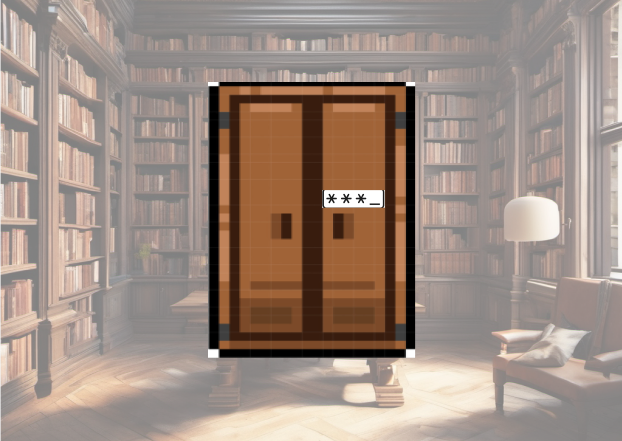
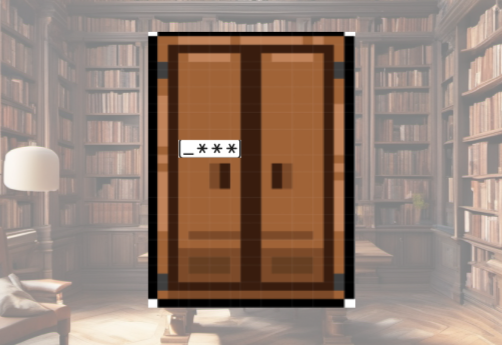
Merge branch 'development' of https://gitlab.fdmci.hva.nl/propedeuse-hbo-ict/onderwijs/2023-2024/out-d-se-gd/blok-3/jooduumeenii48 into development

diff --git a/src/web/src/components/GameCanvas.ts b/src/web/src/components/GameCanvas.ts
@@ -13,15 +13,12 @@ export class GameCanvas extends LitElement {
         display: grid;
         grid-template-columns: 1fr 2fr;
         grid-template-rows: auto auto auto auto;
-        grid-column-gap: 1px;
-        grid-row-gap: 10px;
         position: relative;
     }    
     
     /* CSS styles for the title */
     .title {
         text-align: center;
-        margin-top: 10px;
         position: absolute;
         top: 10px;
         left: 70%;
@@ -34,15 +31,18 @@ export class GameCanvas extends LitElement {
         grid-column: 2;
         grid-row: 1;
         position: relative;
+        max-width: 100%; 
+        height: auto; 
+        max-height: calc(100vh - 20px); 
     }
     
     /* CSS styles for the header image */
     .header img {
-        width: 100%;
-        height: auto;
+        max-width: 100%; 
+        height: auto; 
         image-rendering: pixelated;
         display: block;
-        margin: 50px;
+        margin: 50px 50px 30px 50px ; 
     }
     
     /* CSS styles for the content */
@@ -54,6 +54,7 @@ export class GameCanvas extends LitElement {
         position: relative;
         width: 100%;
         max-width: calc(150% - 100px);
+        overflow-y: auto; /* Add this line to make content scrollable */
     }
     
     /* CSS styles for the aside container */
@@ -61,11 +62,9 @@ export class GameCanvas extends LitElement {
         grid-column: 1;
         background-image: url('/public/assets/img/rooms/ba.png');
         border: 1px solid #332c57;
-        height: 100%;
+        height: auto;
         position: relative;
         background-size: cover;
-        height: 450px;
-        width: 100%;
     }
     
     /* CSS styles for the buttons in the aside */
@@ -134,12 +133,14 @@ export class GameCanvas extends LitElement {
         justify-content: flex-start;
         align-items: flex-start;
         overflow-y: auto;
-        max-height: calc(150vh - 100px);
         position: relative;
         background-size: cover;
         color: black;
-        height: 255px;
+        max-height: calc(100vh - 20px); /* Set max-height to 100% viewport height minus header height */
         width: 100%;
+        height: 285px;
+        margin-left: -8px;
+        margin-top: -60px; /* Align footer to the bottom of the screen */
     }
     
     /* CSS styles for the footer section heading */
@@ -445,24 +446,6 @@ export class GameCanvas extends LitElement {
         if (isUnlockCodeMiniGameEnabled) {
             return html`
                 <div class="aside">
-                    <div class="buttons">
-                        ${this.actionButtons?.map(
-                (button) => html`<a
-                                class="button action-button ${this.selectedActionButton === button ? "active" : ""}"
-                                @click=${(): void => void this.handleClickAction(button)}
-                            >${button.label}</a>`
-            )}
-                    </div>
-                    <div>
-                        ${this.selectedActionButton
-                    ? this.gameObjectButtons?.map(
-                        (button) => html`<a
-                                    class="button object-button ${this.selectedGameObjectButtons.has(button) ? "active" : ""}"
-                                    @click=${(): void => void this.handleClickObject(button)}
-                                >${button.name}</a>`
-                    )
-                    : nothing}
-                    </div>
                     <div class="pin-container">
                         ${[1, 2, 3, 4, 5, 6, 7, 8, 9].map((num) => html`
                             <a class="button pin-code" @click=${(): void => this.handleClickCode(num.toString())}>${num}</a>
@@ -536,20 +519,21 @@ export class GameCanvas extends LitElement {
                         @input=${this.handleNoteInputChange}
                         ></textarea><!-- Initialize textarea with notes value -->
                 ` : nothing}
+
+                <div class="footer-buttons">
+                    ${this.tasksVisible ? html`
+                        <p>Note: when leaving a room,<br>tasks will be cleared</p>
+                    ` : html`
+                        <p>Display tasks by clicking &#9660;</p>
+                        <!-- Text input field for notes -->
+                        
+                    `}
+                    <button @click=${this.handleResetButtonClick}>Reset Game🔄</button>
+                    <button @click=${this.exitRoom}>Exit Room🚪</button>
+                </div>
             </div>
         
         </div>
-        <div class="footer-buttons">
-        ${this.tasksVisible ? html`
-            <p>Note: when leaving a room,<br>tasks will be cleared</p>
-        ` : html`
-            <p>Display tasks by clicking &#9660;</p>
-            <!-- Text input field for notes -->
-            
-        `}
-        <button @click=${this.handleResetButtonClick}>Reset Game🔄</button>
-        <button @click=${this.exitRoom}>Exit Room🚪</button>
-    </div>
     `;
     }
 

diff --git a/src/api/src/Gurpreet/rooms/LibraryRoom.ts b/src/api/src/Gurpreet/rooms/LibraryRoom.ts
@@ -1,5 +1,5 @@
 // This import is for the PickupAction class.
-import { PickupAction } from "../actions/PickupAction";
+import { PickUpActionLibrary } from "../actions/PickupActionLibrary";
 
 // This section imports necessary classes for handling different types of action results.
 import { ActionResult } from "../../base/actionResults/ActionResult";
@@ -34,7 +34,7 @@ import { BookOne, BookOneAlias } from "../items/BookOne";
 import { BookTwo, BookTwoAlias } from "../items/BookTwo";
 import { BookThree, BookThreeAlias } from "../items/BookThree";
 import { Lamp } from "../items/Lamp";
-import { LockedCabinetItem } from "../items/LockedCabinet";
+import { LockedCabinetLibrary } from "../items/LockedCabinetLibrary";
 
 // This import is for the PlayerSession type.
 import { PlayerSession } from "../../types";
@@ -84,7 +84,7 @@ export class LibraryRoom extends Room implements Examine {
         if (playerSession.isLampOn) {
 
             // If the lamp is on show the image with illuminated library
-            return ["library_room"];
+            return ["library_room_light"];
 
         } else {
 
@@ -110,7 +110,7 @@ export class LibraryRoom extends Room implements Examine {
 
         if (playerSession.showPickupAction) {
             // Allows the player to pick up items in the room
-            actions.push(new PickupAction());
+            actions.push(new PickUpActionLibrary());
         }
 
         return actions;
@@ -182,7 +182,7 @@ export class LibraryRoom extends Room implements Examine {
                 if (this.allBooksCollected()) {
 
                     // Adding LockedCabinetItem to the objects array
-                    objects.push(new LockedCabinetItem);
+                    objects.push(new LockedCabinetLibrary);
 
                 }
 

diff --git a/src/api/src/Gurpreet/rooms/StartupRoom.ts b/src/api/src/Gurpreet/rooms/StartupRoom.ts
@@ -1,0 +1,46 @@
+import { ActionResult } from "../../base/actionResults/ActionResult";
+import { TextActionResult } from "../../base/actionResults/TextActionResult";
+import { Action } from "../../base/actions/Action";
+import { CustomAction } from "../../base/actions/CustomAction";
+import { GameObject } from "../../base/gameObjects/GameObject";
+import { Room } from "../../base/gameObjects/Room";
+import { getPlayerSession } from "../../instances";
+
+export const StartupRoomAlias: string = "startup";
+
+export class StartupRoom extends Room {
+    public constructor() {
+        super(StartupRoomAlias);
+    }
+
+    public name(): string {
+        return "Example game";
+    }
+
+    public images(): string[] {
+        return ["startup"];
+    }
+
+    public actions(): Action[] {
+        return [new CustomAction("start-game", "Start Game", false)];
+    }
+
+    public examine(): ActionResult | undefined {
+        return new TextActionResult(["This is an example."]);
+    }
+
+    public custom(alias: string, _gameObjects?: GameObject[]): ActionResult | undefined {
+        if (alias === "start-game") {
+
+            const room: LibraryRoom = new LibraryRoom();
+>>>>>>>> Gurpreet/Library:src/api/src/Gurpreet/rooms/StartupRoom.ts
+
+            //Set the current room to the example room
+            getPlayerSession().currentRoom = room.alias;
+
+            return room.examine();
+        }
+
+        return undefined;
+    }
+}

diff --git a/src/api/src/Gurpreet/actions/PickupActionLibrary.ts b/src/api/src/Gurpreet/actions/PickupActionLibrary.ts
@@ -6,7 +6,7 @@ import { castTo, implementsInterface } from "../../base/helpers";
 /**
  * Alias for the PickupAction class
  */
-export const PickupActionAlias: string = "pickup-action";
+export const PickUpActionLibraryAlias: string = "pickup-action";
 
 /**
  * Interface indicating that an object can be picked up 
@@ -18,9 +18,9 @@ export interface Pickup {
 /**
  * Class representing the Pickup action 
 */
-export class PickupAction extends Action {
+export class PickUpActionLibrary extends Action {
     public constructor() {
-        super(PickupActionAlias, "Pickup", true); // Calling the constructor of the superclass
+        super(PickUpActionLibraryAlias, "Pickup", true); // Calling the constructor of the superclass
     }
 
     /**
@@ -30,7 +30,7 @@ export class PickupAction extends Action {
      */
     public static handle(gameObject: GameObject): ActionResult | undefined {
         // Checking if the game object implements the Pickup interface
-        if (implementsInterface(gameObject, PickupActionAlias)) {
+        if (implementsInterface(gameObject, PickUpActionLibraryAlias)) {
             // Casting the game object to Pickup interface and calling the pickup method
             return castTo<Pickup>(gameObject).pickup();
         }

diff --git a/src/api/src/Gurpreet/items/LockedCabinetLibrary.ts b/src/api/src/Gurpreet/items/LockedCabinetLibrary.ts
@@ -15,12 +15,12 @@ import { Item } from "../../base/gameObjects/Item";
 /** 
  * Exporting the alias of the LockedCabinet class
  */
-export const LockedCabinetItemAlias: string = "Locked Cabinet";
+export const LockedCabinetLibraryAlias: string = "Locked Cabinet Controlroom";
 
 /** 
  * Class representing the Locked Cabinet item
  */
-export class LockedCabinetItem extends Item implements Examine, Talk {
+export class LockedCabinetLibrary extends Item implements Examine, Talk {
 
     /**
      * Constructor for the LockedCabinetItem class
@@ -28,7 +28,7 @@ export class LockedCabinetItem extends Item implements Examine, Talk {
     public constructor() {
 
         // Calling the constructor of the superclass (Item) with the locked cabinet alias, examine and talk action alias
-        super(LockedCabinetItemAlias, ExamineActionAlias, TalkActionAlias);
+        super(LockedCabinetLibraryAlias, ExamineActionAlias, TalkActionAlias);
     }
 
     /**

diff --git a/src/api/src/Gurpreet/items/BookThree.ts b/src/api/src/Gurpreet/items/BookThree.ts
@@ -1,5 +1,5 @@
 // This import is for handling different types of action results.
-import { Pickup, PickupActionAlias } from "../actions/PickupAction";
+import { Pickup, PickUpActionLibraryAlias } from "../actions/PickupActionLibrary";
 import { ActionResult } from "../../base/actionResults/ActionResult";
 import { ExamineActionResult } from "../../base/actionResults/ExamineActionResult";
 import { TextActionResult } from "../../base/actionResults/TextActionResult";
@@ -36,7 +36,7 @@ export class BookThree extends Item implements Examine, Pickup, Talk {
     public constructor() {
 
         // Calling the constructor of the superclass (Item) with the book one alias, examine, pickup and talk action alias
-        super(BookThreeAlias, ExamineActionAlias, PickupActionAlias, TalkActionAlias);
+        super(BookThreeAlias, ExamineActionAlias, PickUpActionLibraryAlias, TalkActionAlias);
 
     }
 

diff --git a/src/api/src/Gurpreet/items/BookTwo.ts b/src/api/src/Gurpreet/items/BookTwo.ts
@@ -1,5 +1,5 @@
 // Import statements for handling different types of action results
-import { Pickup, PickupActionAlias } from "../actions/PickupAction";
+import { Pickup, PickUpActionLibraryAlias } from "../actions/PickupActionLibrary";
 import { ActionResult } from "../../base/actionResults/ActionResult";
 import { ExamineActionResult } from "../../base/actionResults/ExamineActionResult";
 import { TextActionResult } from "../../base/actionResults/TextActionResult";
@@ -37,7 +37,7 @@ export class BookTwo extends Item implements Examine, Pickup, Talk {
     public constructor() {
 
         // Calling the constructor of the superclass (Item) with the book one alias, examine, pickup and talk action alias
-        super(BookTwoAlias, ExamineActionAlias, PickupActionAlias, TalkActionAlias);
+        super(BookTwoAlias, ExamineActionAlias, PickUpActionLibraryAlias, TalkActionAlias);
 
     }
 

diff --git a/src/api/src/Gurpreet/items/BookOne.ts b/src/api/src/Gurpreet/items/BookOne.ts
@@ -1,5 +1,5 @@
 // This import is for handling different types of action results.
-import { Pickup, PickupActionAlias } from "../actions/PickupAction";
+import { Pickup, PickUpActionLibraryAlias } from "../actions/PickupActionLibrary";
 import { ActionResult } from "../../base/actionResults/ActionResult";
 import { ExamineActionResult } from "../../base/actionResults/ExamineActionResult";
 import { TextActionResult } from "../../base/actionResults/TextActionResult";
@@ -36,7 +36,7 @@ export class BookOne extends Item implements Examine, Pickup, Talk {
     public constructor() {
 
         // Calling the constructor of the superclass (Item) with the book one alias, examine, pickup and talk action alias
-        super(BookOneAlias, ExamineActionAlias, PickupActionAlias, TalkActionAlias);
+        super(BookOneAlias, ExamineActionAlias, PickUpActionLibraryAlias, TalkActionAlias);
 
     }
 

diff --git a/src/api/src/instances.ts b/src/api/src/instances.ts
@@ -18,6 +18,7 @@ import { StartupRoom, StartupRoomAlias } from "./rooms/StartupRoom";
 import { PlayerSession } from "./types";
 import { LibraryRoom, LibraryRoomAlias } from "./Gurpreet/rooms/LibraryRoom";
 import { DetectiveCharacterLibrary, DetectiveCharacterLibraryAlias } from "./Gurpreet/characters/DetectiveCharacterLibrary";
+import { LockedCabinetLibrary, LockedCabinetLibraryAlias } from "./Gurpreet/items/LockedCabinetLibrary";
 
 /**
  * Create a new player session object
@@ -127,6 +128,9 @@ export function getGameObjectByAlias(alias: string): GameObject | undefined {
 
         case LockedCabinetItemAlias:
             return new LockedCabinetItem();
+
+        case LockedCabinetLibraryAlias:
+            return new LockedCabinetLibrary();
 
         case DetectiveCharacterLibraryAlias:
             return new DetectiveCharacterLibrary();

diff --git a/src/api/src/routes.ts b/src/api/src/routes.ts
@@ -21,6 +21,7 @@ import { PlayerSession } from "./types";
 import { PickUpAction, PickUpActionAlias } from "./kamal/actions/PickUpAction";
 import { ExamineActionResult } from "./base/actionResults/ExamineActionResult";
 import { ExamineCodeActionResult } from "./base/actionResults/ExamineCodeActionResult";
+import { PickUpActionLibrary, PickUpActionLibraryAlias } from "./Gurpreet/actions/PickupActionLibrary";
 
 // Create Express router
 export const router: Router = Router();
@@ -136,6 +137,9 @@ function handleActionInRoom(room: Room, alias: string, objectAliases?: string[])
 
         case PickUpActionAlias:
             return PickUpAction.handle(gameObjects[0]);  
+
+        case PickUpActionLibraryAlias:
+                return PickUpActionLibrary.handle(gameObjects[0]); 
     }
 
     // Handle custom actions

diff --git a/src/api/src/rooms/StartupRoom.ts b/src/api/src/rooms/StartupRoom.ts
@@ -6,6 +6,7 @@ import { CustomAction } from "../base/actions/CustomAction";
 import { GameObject } from "../base/gameObjects/GameObject";
 import { Room } from "../base/gameObjects/Room";
 import { getPlayerSession } from "../instances";
+import { ControlRoom } from "../kamal/rooms/ControlRoom";
 
 export const StartupRoomAlias: string = "startup";
 
@@ -33,8 +34,7 @@ export class StartupRoom extends Room {
     public custom(alias: string, _gameObjects?: GameObject[]): ActionResult | undefined {
         if (alias === "start-game") {
             
-            const room: Room = new LibraryRoom();
-
+            const room: Room = new ControlRoom();
             //Set the current room to the example room
             getPlayerSession().currentRoom = room.alias;
 

diff --git a/src/api/src/Gurpreet/items/Lamp.ts b/src/api/src/Gurpreet/items/Lamp.ts
@@ -88,7 +88,7 @@ export class Lamp extends Item implements Examine, Talk {
                     "[Assistant]: Understood, Detective. I'll start there and then move on to the desk.",
                     "[Detective]: Remember to be thorough. We can't afford to miss anything."
                 ], // Text displayed to the player
-                ["library_room"] // Image displayed of illuminated libray to the player
+                ["library_room_light"] // Image displayed of illuminated libray to the player
             );
 
         }
